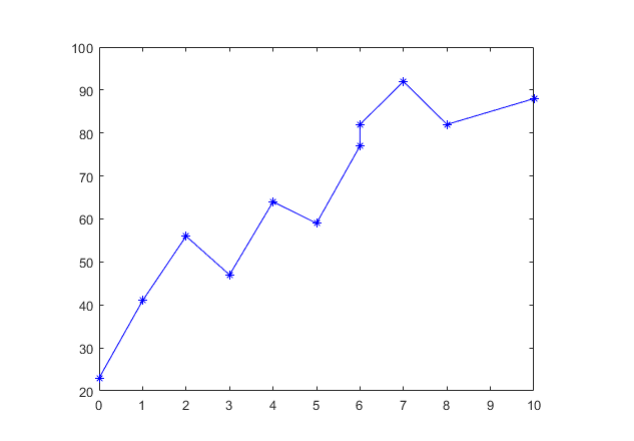
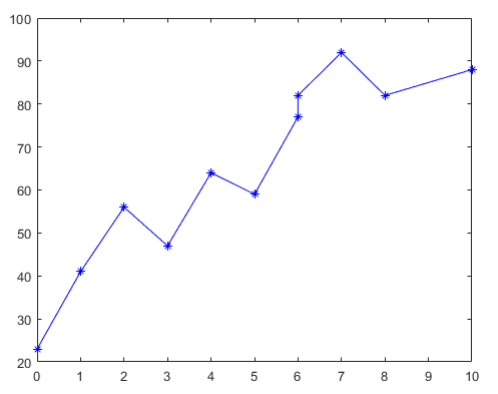
change graph1

diff --git a/README.md b/README.md
@@ -29,7 +29,7 @@ that we get, but we're going to need some data to demonstrate it correctly.
 
 <img align="left" src="images/hours_score.jpg"><br>
 
-<img align="right" src="images/graph1.png" width="45%"></img><br>
+<img align="center" src="images/graph1.png" width="45%"></img><br>
 
 <p>The method of least squares makes it possible to select among these functions the one which reproduces the better experimental data. We speak in this case of adjustment by the least method squares.The method consists of a prescription (empirical method), which is that the function fα (x) which best describes the data is that which minimizes the quadratic sum of the deviations of the measures to the predictions of y (x). I presume that you also snow how The method of least squares works, if not search on wikipedia for this details cause this part is just the application of it</p><br>
 <p align="left" >let a set of measures  ῼ = { (x1, y1) , (x2, y2) .......(xn, yn) } </p>
